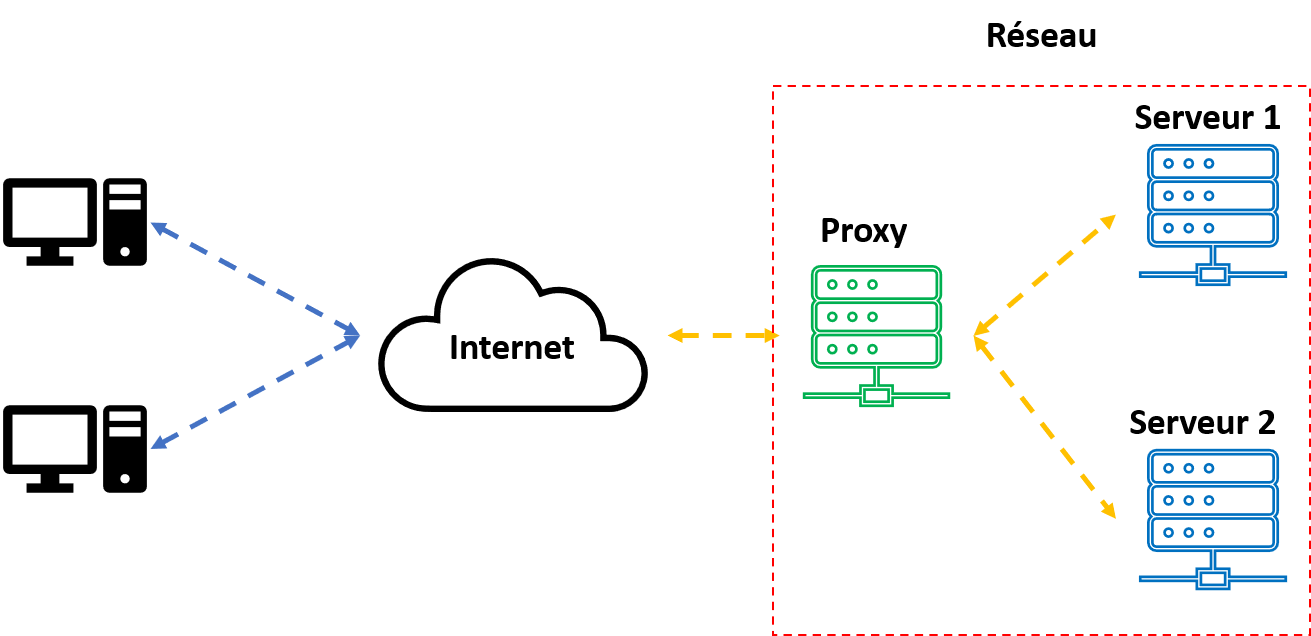
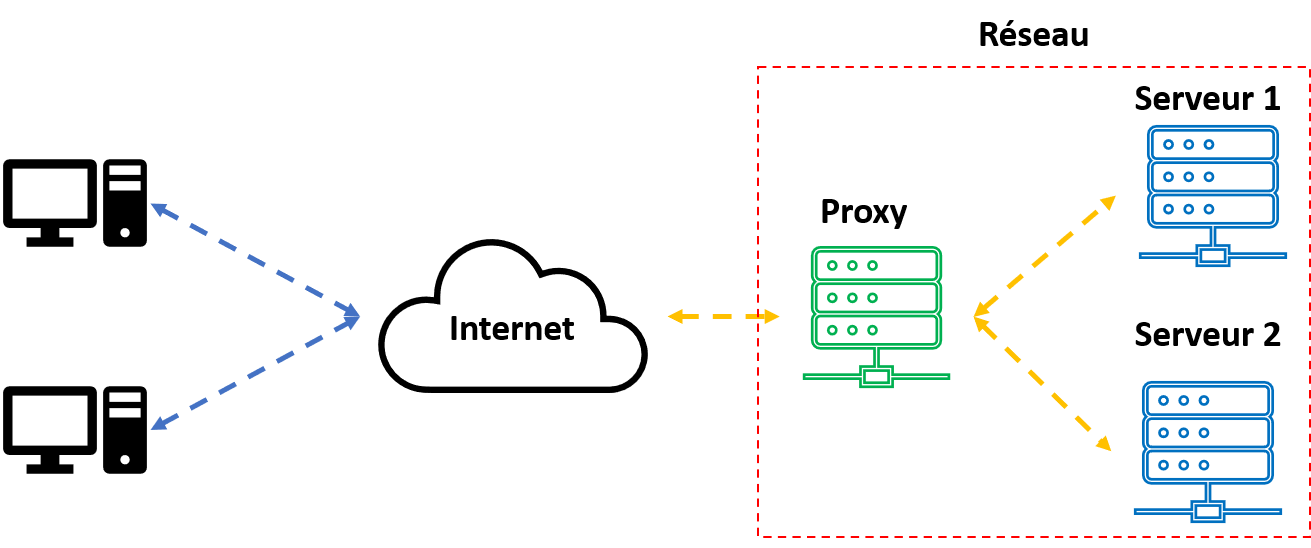
Youhou !

diff --git a/slides/resilience-cloud.html b/slides/resilience-cloud.html
@@ -261,7 +261,7 @@
   <h2>
     Architecture micro-service
   </h2>
-  <img   src="/images/archimicroservices.png">
+  <img style="width: 70%;"   src="/images/archimicroservices.png">
 
   <aside data-markdown class="notes">
 
